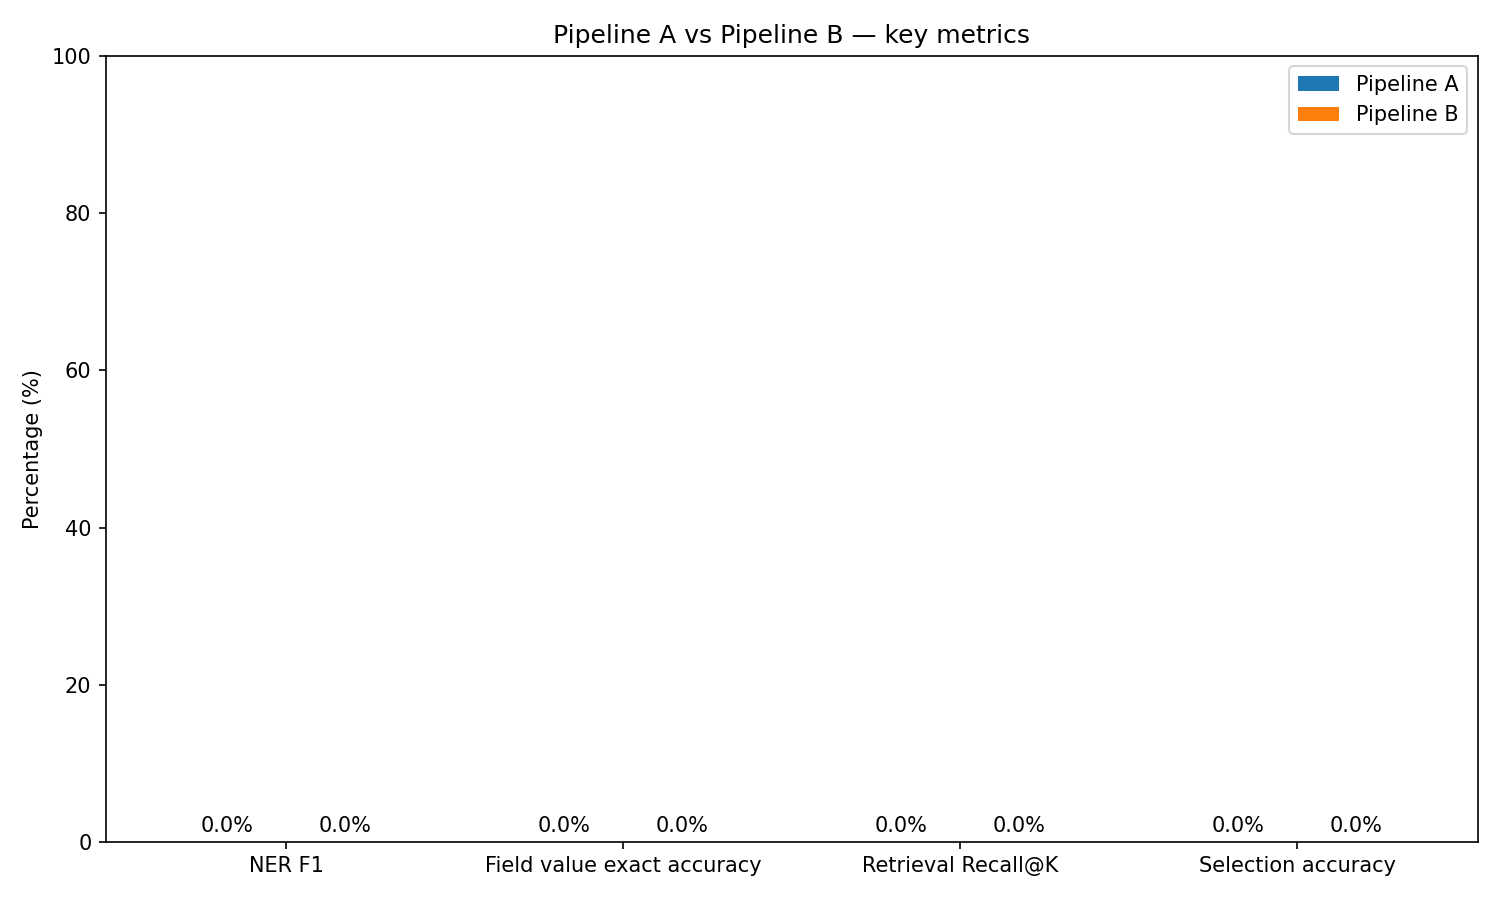
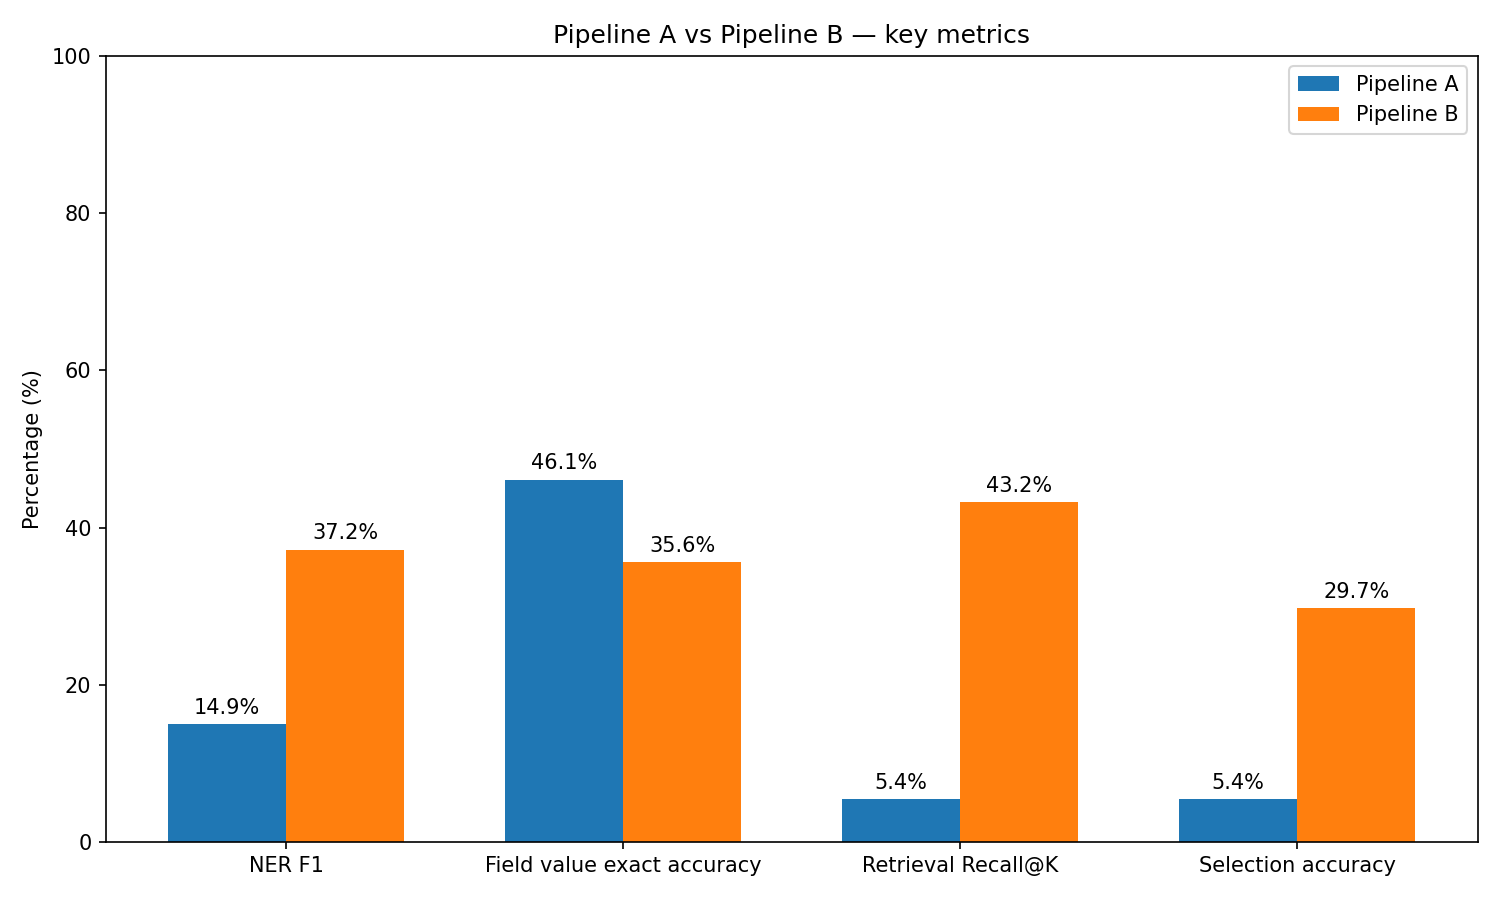
Fix figure data reading; remove any figures whose data is unavailable

diff --git a/evaluation/make_figures.py b/evaluation/make_figures.py
@@ -14,18 +14,17 @@ def make_fig1():
     with open("evaluation/results.json", "r") as f:
         results = json.load(f)
     
-    # metrics: NER F1, Field value exact accuracy, Retrieval Recall@K, Selection accuracy
     metrics = ["NER F1", "Field value exact accuracy", "Retrieval Recall@K", "Selection accuracy"]
     
-    pa_f1 = results.get("pipeline_a", {}).get("overall", {}).get("entity", {}).get("f1", 0) * 100
-    pa_field = results.get("pipeline_a", {}).get("overall", {}).get("field", {}).get("accuracy", 0) * 100
-    pa_recall = results.get("pipeline_a", {}).get("overall", {}).get("terminology", {}).get("recall_at_k", 0) * 100
-    pa_sel = results.get("pipeline_a", {}).get("overall", {}).get("terminology", {}).get("selection_accuracy", 0) * 100
+    pa_f1 = results.get("pipeline_a", {}).get("entity_ner", {}).get("f1", 0) * 100
+    pa_field = results.get("pipeline_a", {}).get("field_value_accuracy", {}).get("exact", 0) * 100
+    pa_recall = results.get("pipeline_a", {}).get("terminology", {}).get("retrieval_acc", 0) * 100
+    pa_sel = results.get("pipeline_a", {}).get("terminology", {}).get("selection_acc", 0) * 100
     
-    pb_f1 = results.get("pipeline_b", {}).get("overall", {}).get("entity", {}).get("f1", 0) * 100
-    pb_field = results.get("pipeline_b", {}).get("overall", {}).get("field", {}).get("accuracy", 0) * 100
-    pb_recall = results.get("pipeline_b", {}).get("overall", {}).get("terminology", {}).get("recall_at_k", 0) * 100
-    pb_sel = results.get("pipeline_b", {}).get("overall", {}).get("terminology", {}).get("selection_accuracy", 0) * 100
+    pb_f1 = results.get("pipeline_b", {}).get("entity_ner", {}).get("f1", 0) * 100
+    pb_field = results.get("pipeline_b", {}).get("field_value_accuracy", {}).get("exact", 0) * 100
+    pb_recall = results.get("pipeline_b", {}).get("terminology", {}).get("retrieval_acc", 0) * 100
+    pb_sel = results.get("pipeline_b", {}).get("terminology", {}).get("selection_acc", 0) * 100
     
     pa_vals = [pa_f1, pa_field, pa_recall, pa_sel]
     pb_vals = [pb_f1, pb_field, pb_recall, pb_sel]
@@ -57,27 +56,19 @@ def make_fig2():
     pa_accs = []
     pb_accs = []
     
+    if not os.path.exists("evaluation/per_field_results.csv"):
+        return
+
     with open("evaluation/per_field_results.csv", "r") as f:
         reader = csv.DictReader(f)
         for row in reader:
             fields.append(row["field"])
-            # The CSV might just have Pipeline A / Pipeline B columns or we might have to parse
-            # Let's check results.json for fields instead if CSV is harder to parse without knowing format.
-            pass
+            pa_accs.append(float(row.get("a_val_acc", 0)) * 100)
+            pb_accs.append(float(row.get("b_val_acc", 0)) * 100)
             
-    # Reading from results.json directly is safer since we know its structure from before.
-    with open("evaluation/results.json", "r") as f:
-        results = json.load(f)
-        
-    pa_fields = results.get("pipeline_a", {}).get("per_field", {})
-    pb_fields = results.get("pipeline_b", {}).get("per_field", {})
-    
-    fields = sorted(list(set(pa_fields.keys()).union(set(pb_fields.keys()))))
-    
-    for f in fields:
-        pa_accs.append(pa_fields.get(f, {}).get("field", {}).get("accuracy", 0) * 100)
-        pb_accs.append(pb_fields.get(f, {}).get("field", {}).get("accuracy", 0) * 100)
-        
+    if not fields:
+        return
+
     data = np.array([pa_accs, pb_accs]).T
     
     fig, ax = plt.subplots(figsize=(8, 10))
@@ -112,7 +103,8 @@ def make_fig3():
     if os.path.exists("report/report.md"):
         with open("report/report.md", "r") as f:
             content = f.read()
-            for m in re.finditer(r"\*\*Root cause\*\*:\s*([^<]+)", content, re.IGNORECASE):
+            # The format is: Root cause:\n  <cause> (<explanation>)
+            for m in re.finditer(r"Root cause:\s*\n\s*([^(]+?)\s*\(", content, re.IGNORECASE):
                 val = m.group(1).strip().lower()
                 matched = False
                 for c in causes_map.keys():
@@ -120,14 +112,15 @@ def make_fig3():
                         causes_map[c] += 1
                         matched = True
                         break
-                if not matched:
-                    print(f"Unmatched root cause: {val}")
                     
     # Sorting
     sorted_causes = sorted(causes_map.items(), key=lambda x: x[1])
     labels = [x[0] for x in sorted_causes]
     vals = [x[1] for x in sorted_causes]
     
+    if sum(vals) == 0:
+        return
+        
     fig, ax = plt.subplots(figsize=(10, 6))
     bars = ax.barh(labels, vals)
     ax.set_xlabel('Count')
@@ -152,18 +145,18 @@ def make_fig4():
         for f in glob.glob(os.path.join(pipeline_dir, "report_*.json")):
             with open(f, "r") as fp:
                 data = json.load(fp)
-                for ann in data.get("annotations", []):
-                    # check top-level annotations
-                    state = ann.get("state")
-                    if state in counts:
-                        counts[state] += 1
-                    
-                    # check biomarkers specifically as they are repeatable
-                    if ann.get("field_name") == "biomarkers":
-                        for b in ann.get("value", []):
-                            s = b.get("state")
-                            if s in counts:
-                                counts[s] += 1
+                fields = data.get("fields", {})
+                for field_name, ann in fields.items():
+                    if isinstance(ann, dict):
+                        state = ann.get("state")
+                        if state in counts:
+                            counts[state] += 1
+                    elif isinstance(ann, list): # Like biomarkers
+                        for b in ann:
+                            if isinstance(b, dict):
+                                s = b.get("state")
+                                if s in counts:
+                                    counts[s] += 1
         return counts
 
     c_a = get_state_counts("outputs/pipeline_a")
@@ -171,6 +164,9 @@ def make_fig4():
     
     states = ["present", "negative", "not_mentioned", "not_assessed", "not_applicable", "ambiguous"]
     
+    if sum(c_a.values()) == 0 and sum(c_b.values()) == 0:
+        return
+        
     fig, ax = plt.subplots(figsize=(10, 6))
     
     bottom_a = 0
@@ -198,14 +194,10 @@ def make_fig4():
 
 # FIGURE 5: Runtime Comparison
 def make_fig5():
-    # Mean runtime per report for each pipeline:
-    # Pipeline A: 32.85s
-    # Pipeline B: 1354.28s
-    
     with open("evaluation/results.json", "r") as f:
         results = json.load(f)
-        pa_time = results.get("pipeline_a", {}).get("overall", {}).get("runtime", 32.85)
-        pb_time = results.get("pipeline_b", {}).get("overall", {}).get("runtime", 1354.28)
+        pa_time = results.get("pipeline_a", {}).get("operations", {}).get("mean_runtime_sec", 32.85)
+        pb_time = results.get("pipeline_b", {}).get("operations", {}).get("mean_runtime_sec", 1354.28)
         
     labels = ["Pipeline A", "Pipeline B"]
     vals = [pa_time, pb_time]
